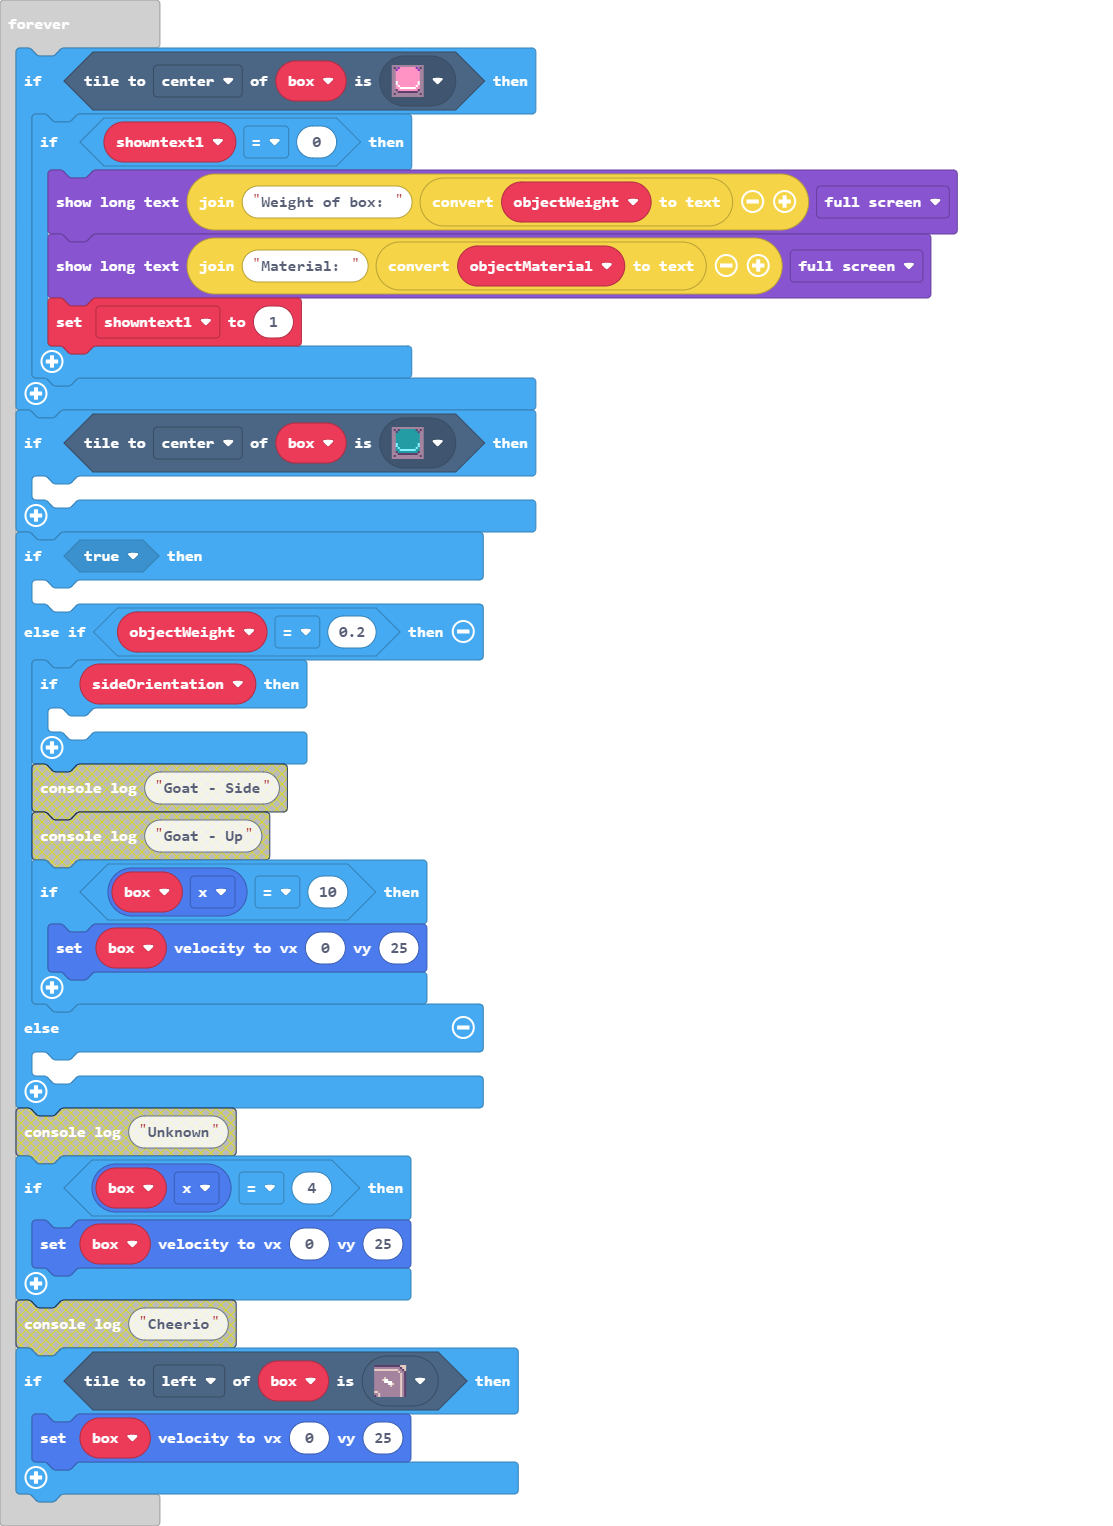
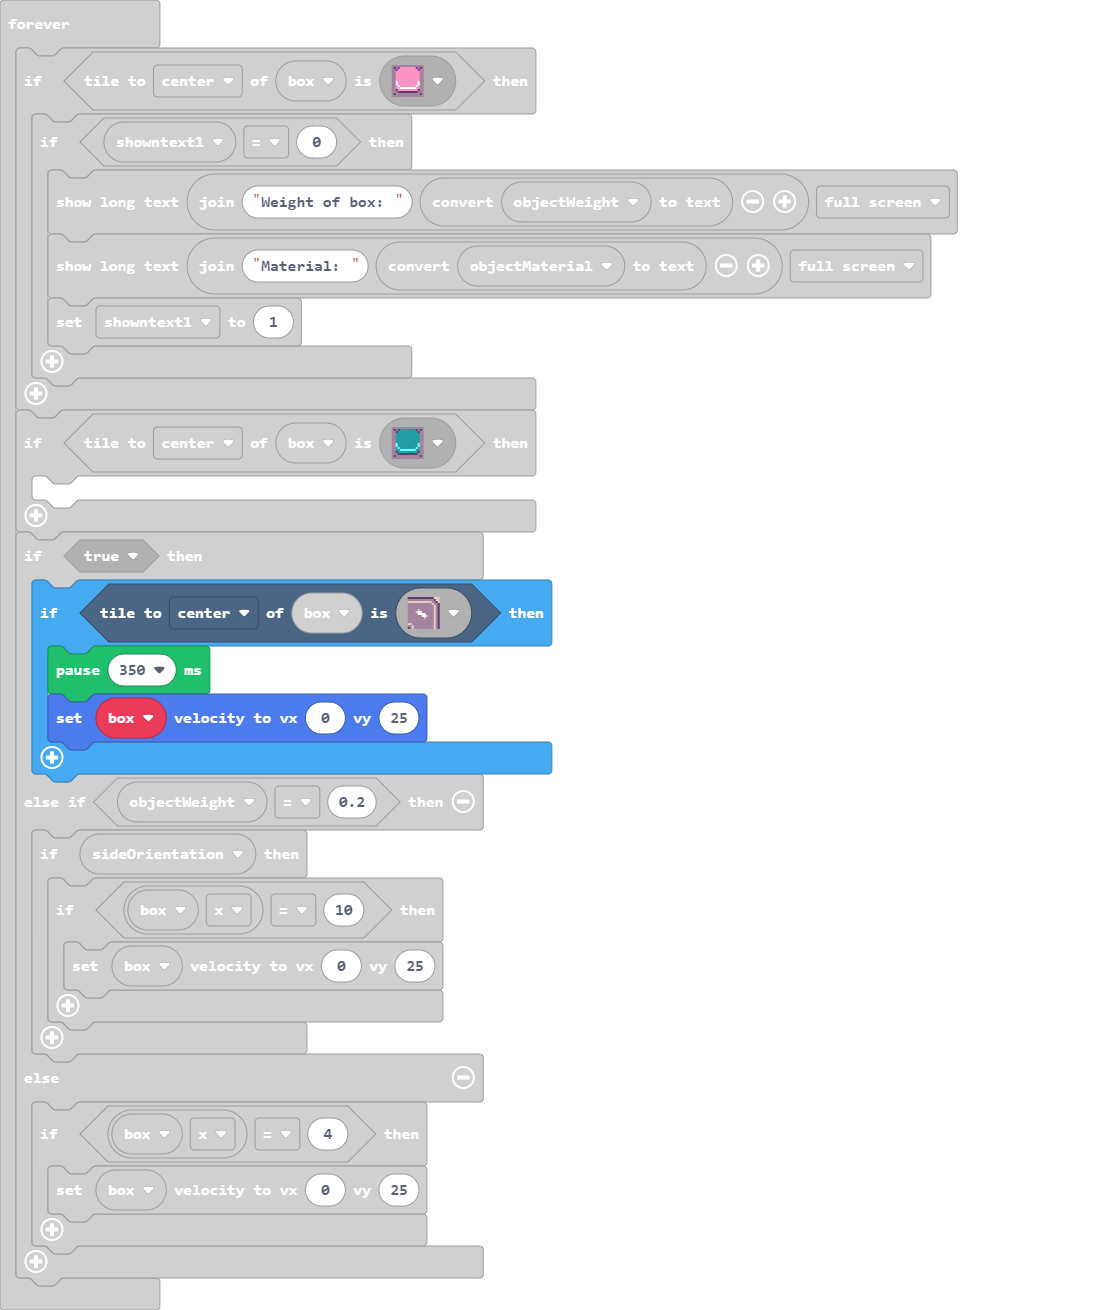
Update main.blocks, main.ts

diff --git a/main.ts b/main.ts
@@ -271,7 +271,8 @@ forever(function () {
     	
     }
     if (true) {
-        if (box.tileKindAt(TileDirection.Left, myTiles.tile2)) {
+        if (box.tileKindAt(TileDirection.Center, myTiles.tile2)) {
+            pause(350)
             box.setVelocity(0, 25)
         }
     } else if (objectWeight == 0.2) {
